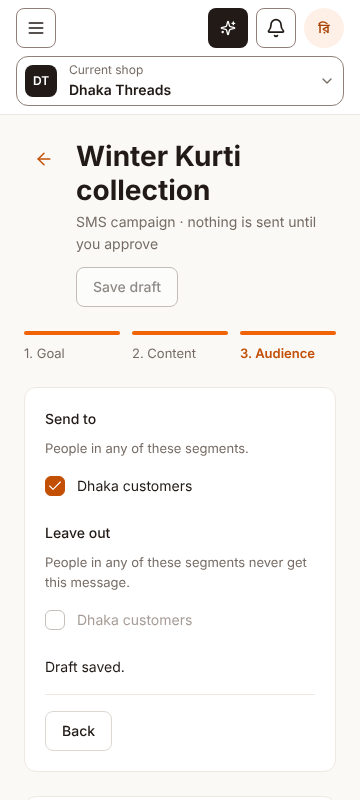
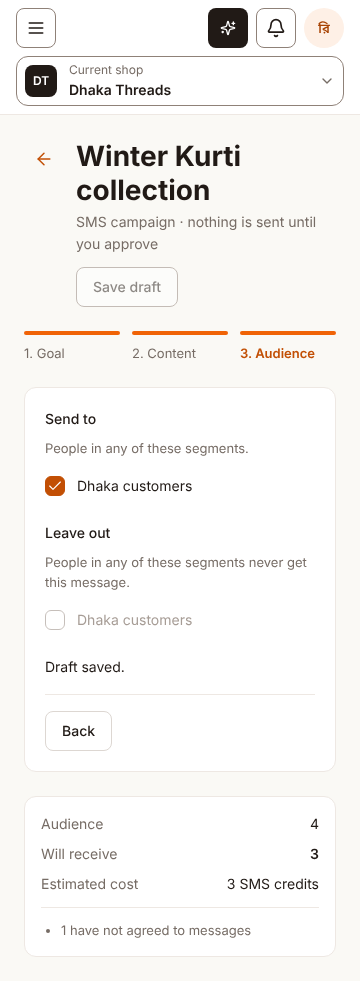
test(camp-17): retake the 360 px audience evidence as a full page

diff --git a/apps/web/e2e/campaign-messenger.spec.ts b/apps/web/e2e/campaign-messenger.spec.ts
@@ -7,7 +7,8 @@ import { expect, test, type Page } from '@playwright/test';
 import type { CampaignResponse } from '@dakly/contracts/campaigns';
 import { createDatabase } from '@dakly/db/client';
 
-async function capture(page: Page, screen: string) {
+// A full-page shot at 360 px shows a long screen below the fold, such as the estimate card.
+async function capture(page: Page, screen: string, fullPage = false) {
   const evidence = process.env.CAMP7_SCREENSHOT_DIR;
   if (evidence) await mkdir(evidence, { recursive: true });
   for (const [width, height] of [
@@ -18,7 +19,8 @@ async function capture(page: Page, screen: string) {
     await expect
       .poll(() => page.evaluate(() => document.documentElement.scrollWidth <= innerWidth))
       .toBe(true);
-    if (evidence) await page.screenshot({ path: resolve(evidence, `${screen}-${width}.png`) });
+    if (evidence)
+      await page.screenshot({ path: resolve(evidence, `${screen}-${width}.png`), fullPage });
   }
   await page.setViewportSize({ width: 1440, height: 900 });
 }
@@ -115,7 +117,7 @@ test('builds a Messenger draft with an image and buttons', async ({ page, contex
     const estimate = page.getByRole('region', { name: 'Estimate' });
     await expect(estimate).toContainText('Will receive');
     await expect(estimate).toContainText('Messenger only allows a message');
-    await capture(page, 'audience-step');
+    await capture(page, 'audience-step', true);
     await page.getByRole('link', { name: '2. Content' }).click();
     await expect(estimate).toContainText('Will receive');
     await page.getByLabel(/Image link/).fill('https://shop.example/eid.jpg');

diff --git a/apps/web/e2e/campaign-drafts.spec.ts b/apps/web/e2e/campaign-drafts.spec.ts
@@ -7,7 +7,8 @@ import { expect, test, type Page } from '@playwright/test';
 import type { CampaignResponse } from '@dakly/contracts/campaigns';
 import { createDatabase } from '@dakly/db/client';
 
-async function capture(page: Page, screen: string) {
+// A full-page shot at 360 px shows a long screen below the fold, such as the estimate card.
+async function capture(page: Page, screen: string, fullPage = false) {
   const evidence = process.env.CAMP4_SCREENSHOT_DIR;
   if (evidence) await mkdir(evidence, { recursive: true });
   for (const [width, height] of [
@@ -18,7 +19,8 @@ async function capture(page: Page, screen: string) {
     await expect
       .poll(() => page.evaluate(() => document.documentElement.scrollWidth <= innerWidth))
       .toBe(true);
-    if (evidence) await page.screenshot({ path: resolve(evidence, `${screen}-${width}.png`) });
+    if (evidence)
+      await page.screenshot({ path: resolve(evidence, `${screen}-${width}.png`), fullPage });
   }
   await page.setViewportSize({ width: 1440, height: 900 });
 }
@@ -230,7 +232,7 @@ test('saves an SMS draft and opens a sent campaign read-only', async ({
     const estimateCard = page.getByRole('region', { name: 'Estimate' });
     await expect(estimateCard).toContainText('3 SMS credits');
     await expect(estimateCard).toContainText('1 have not agreed to messages');
-    await capture(page, 'sms-audience-step');
+    await capture(page, 'sms-audience-step', true);
 
     await page.goto(`/campaigns/${sent.id}`);
     await expect(page.getByRole('heading', { name: 'Puja winback' })).toBeVisible();
